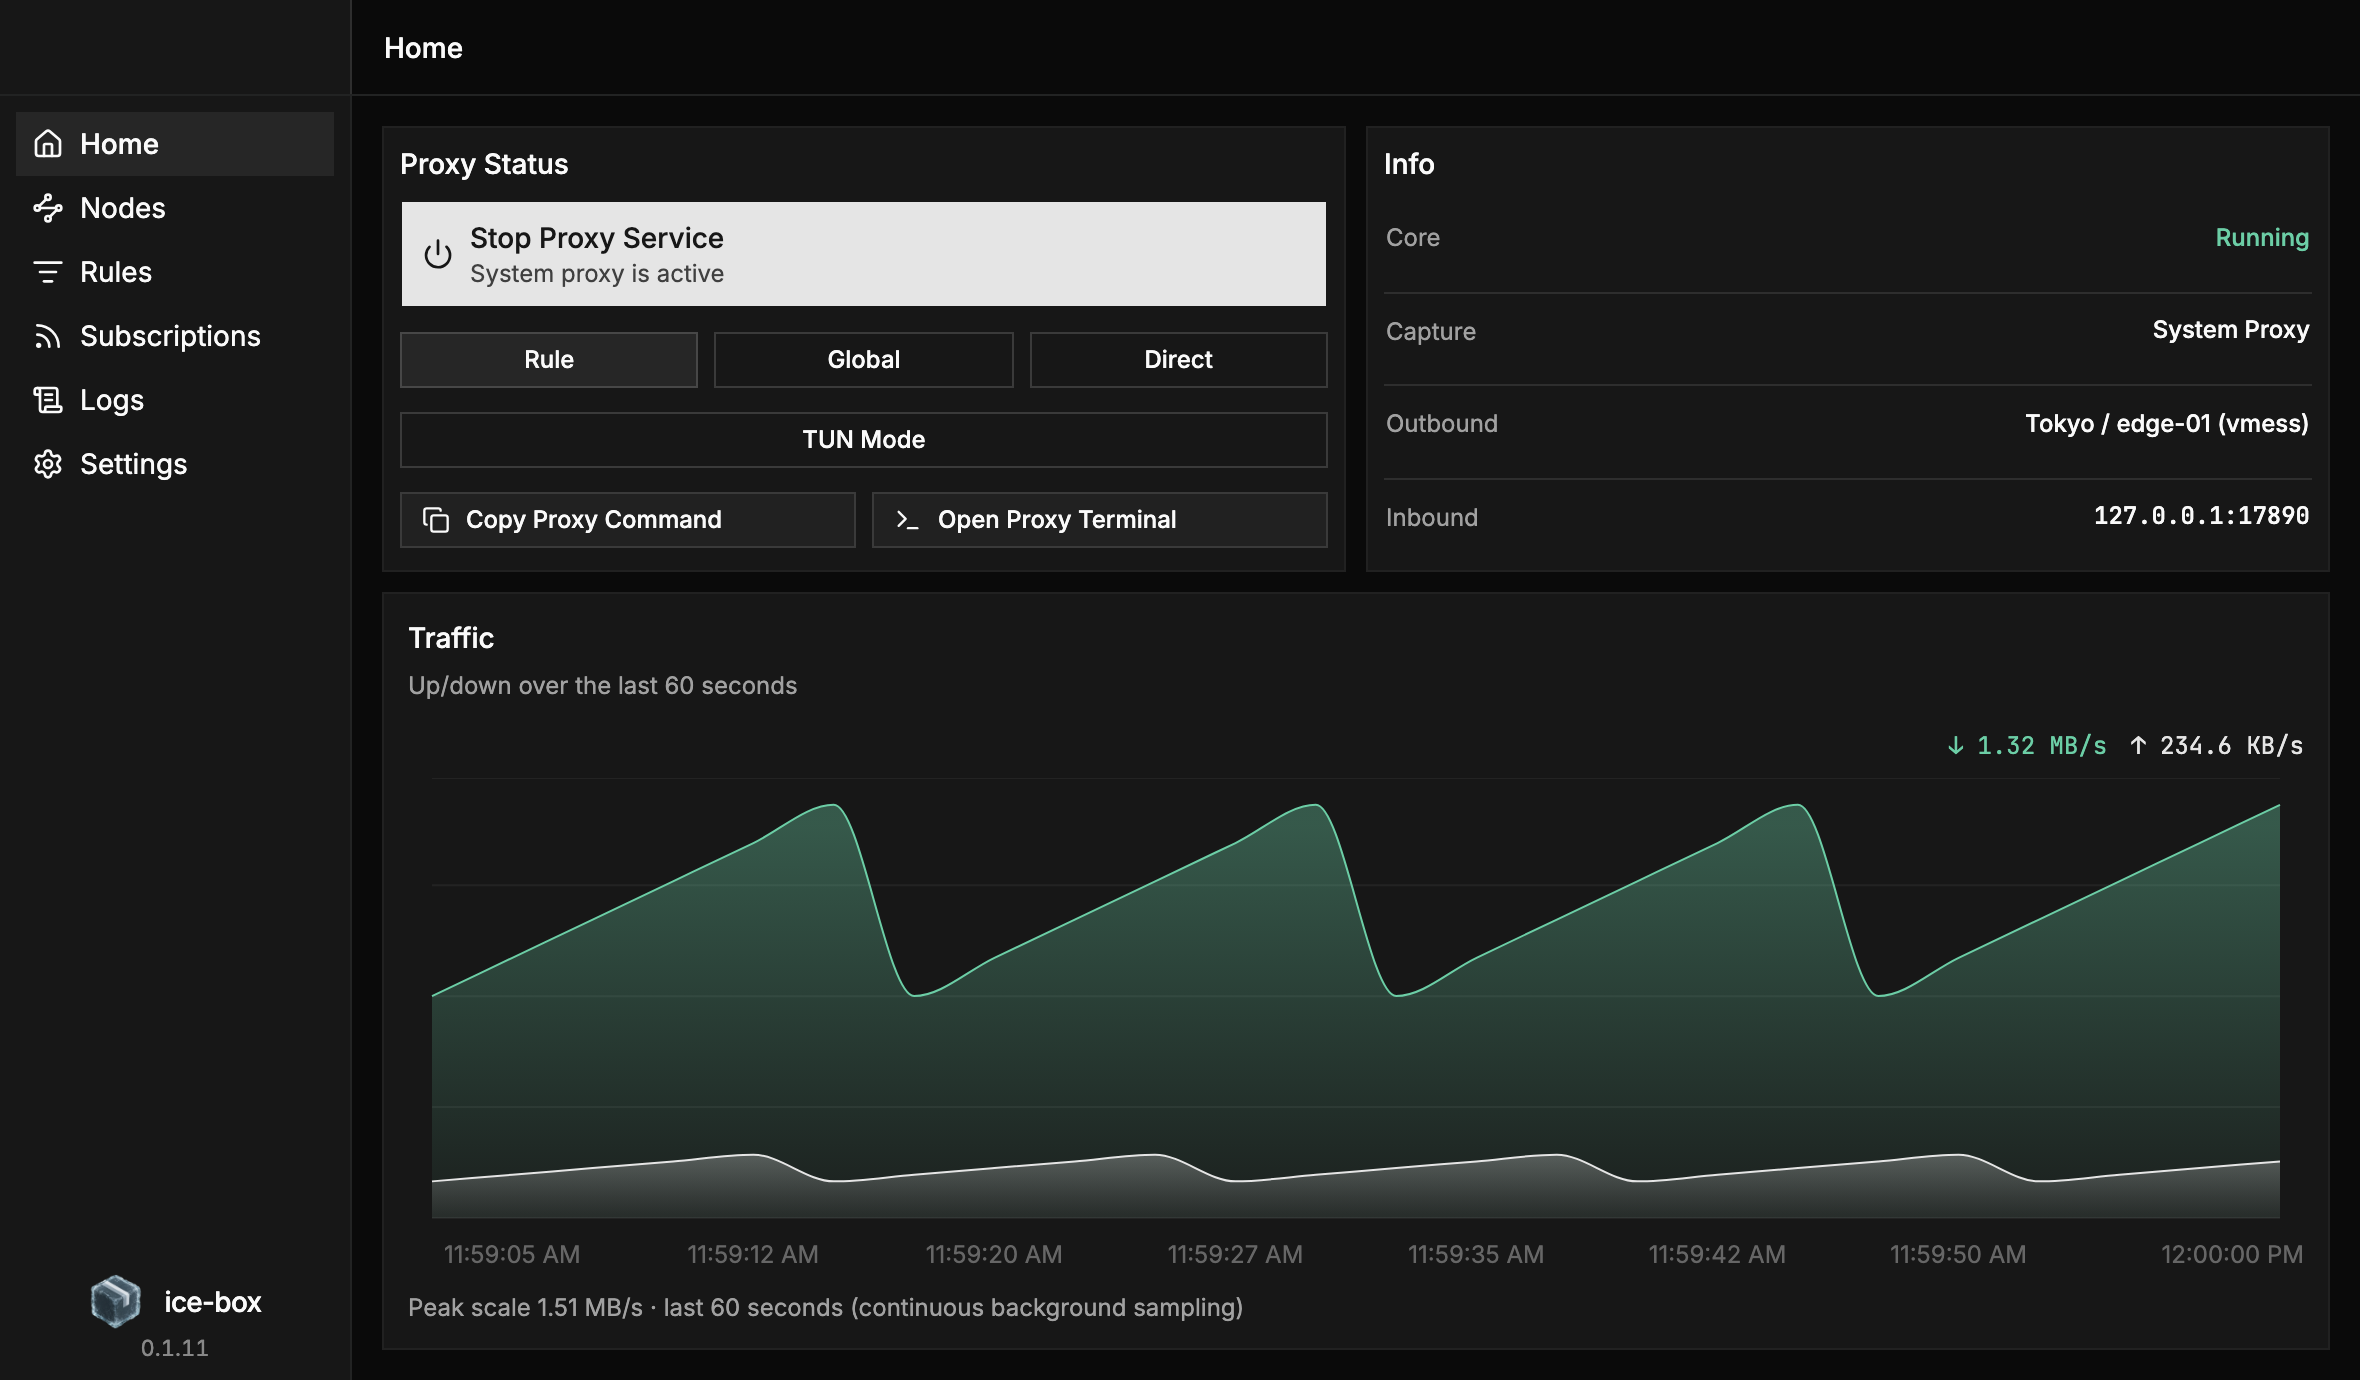
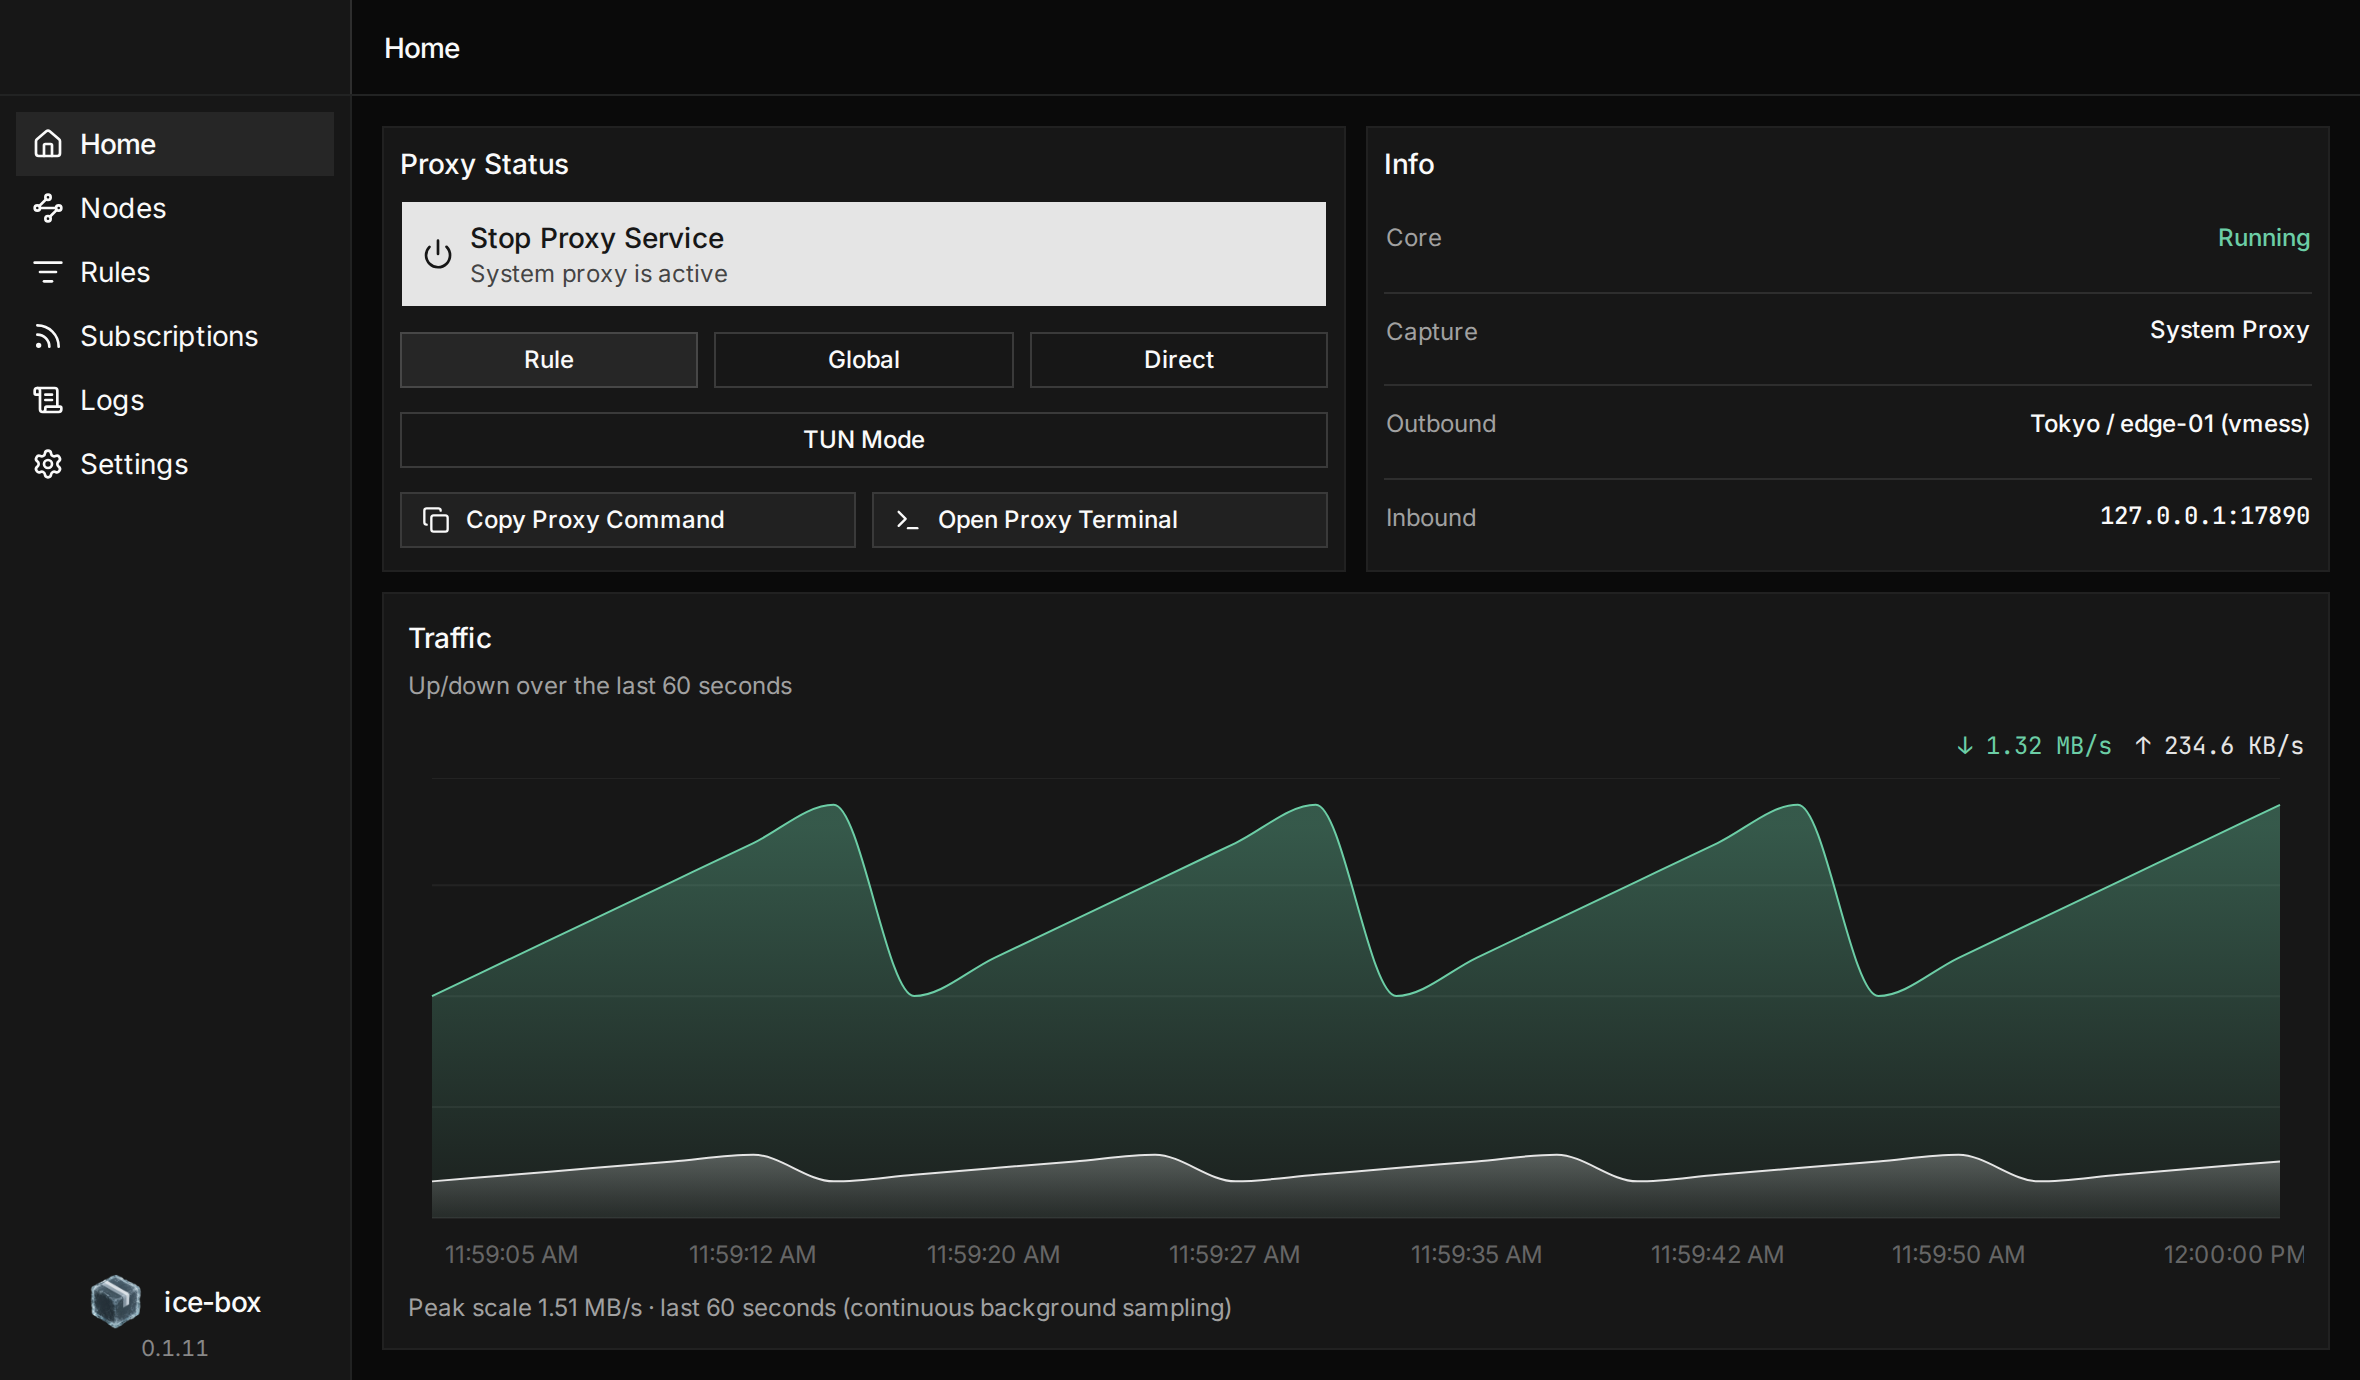
feat(website): capture bilingual README screenshots
capture-home.mjs now produces docs/images/home.png (en) and
docs/images/home.zh-CN.png (zh-CN) in a single run; the browser locale and
the stored UI language are pinned per screenshot. README.zh-CN.md references
the Chinese screenshot, capture-demo-home.sh re-captures when either image
is missing, and release-process.md / testing.md are updated for the pair.

diff --git a/docs/testing.md b/docs/testing.md
@@ -12,8 +12,9 @@ Run commands from the repository root. Development prerequisites are in the
 | `bash scripts/gate.sh` | All-crate clippy; non-desktop Rust library/integration/doc tests plus desktop library tests; frontend checks, fixtures, and production build |
 
 The local gate omits desktop Rust tests because GTK/WebKit dependencies may be
-unavailable. Its screenshot step refreshes the documentation image when the
-version or relevant UI files change. CI skips screenshot capture.
+unavailable. Its screenshot step refreshes the documentation images when the
+version or relevant UI files change, or when either image is missing. CI skips
+screenshot capture.
 
 CI runs the full gate on Linux and `GATE_SCOPE=rust` on macOS/Windows; packaging
 jobs build separately. `GATE_SCOPE=frontend` runs only the frontend half.

diff --git a/README.zh-CN.md b/README.zh-CN.md
@@ -25,7 +25,7 @@
 <br>
 
 <a href="https://yilong-musk.github.io/ice-box/">
-  <img src="docs/images/home.png" alt="ice-box 主页：代理状态、模式切换、出口节点和实时流量图" width="880">
+  <img src="docs/images/home.zh-CN.png" alt="ice-box 主页：代理状态、模式切换、出口节点和实时流量图" width="880">
 </a>
 
 <sub>安装前想先看看？<a href="https://yilong-musk.github.io/ice-box/">在线演示</a>在浏览器中运行真实的桌面端界面，后端为模拟数据。</sub>

diff --git a/docs/release-process.md b/docs/release-process.md
@@ -87,7 +87,8 @@ bash scripts/release-notes.sh v0.1.2
 bash scripts/gate-local.sh
 ```
 
-Commit the updated `docs/images/home.png` and `docs/images/home.version` with the release.
+Commit the updated `docs/images/home.png`, `docs/images/home.zh-CN.png`, and
+`docs/images/home.version` with the release.
 
 Open a PR from a `release/vX.Y.Z` branch and merge into `main`. `main` has
 branch protection: all CI checks (`gate (linux)`, `gate + build (macOS dmg)`,
